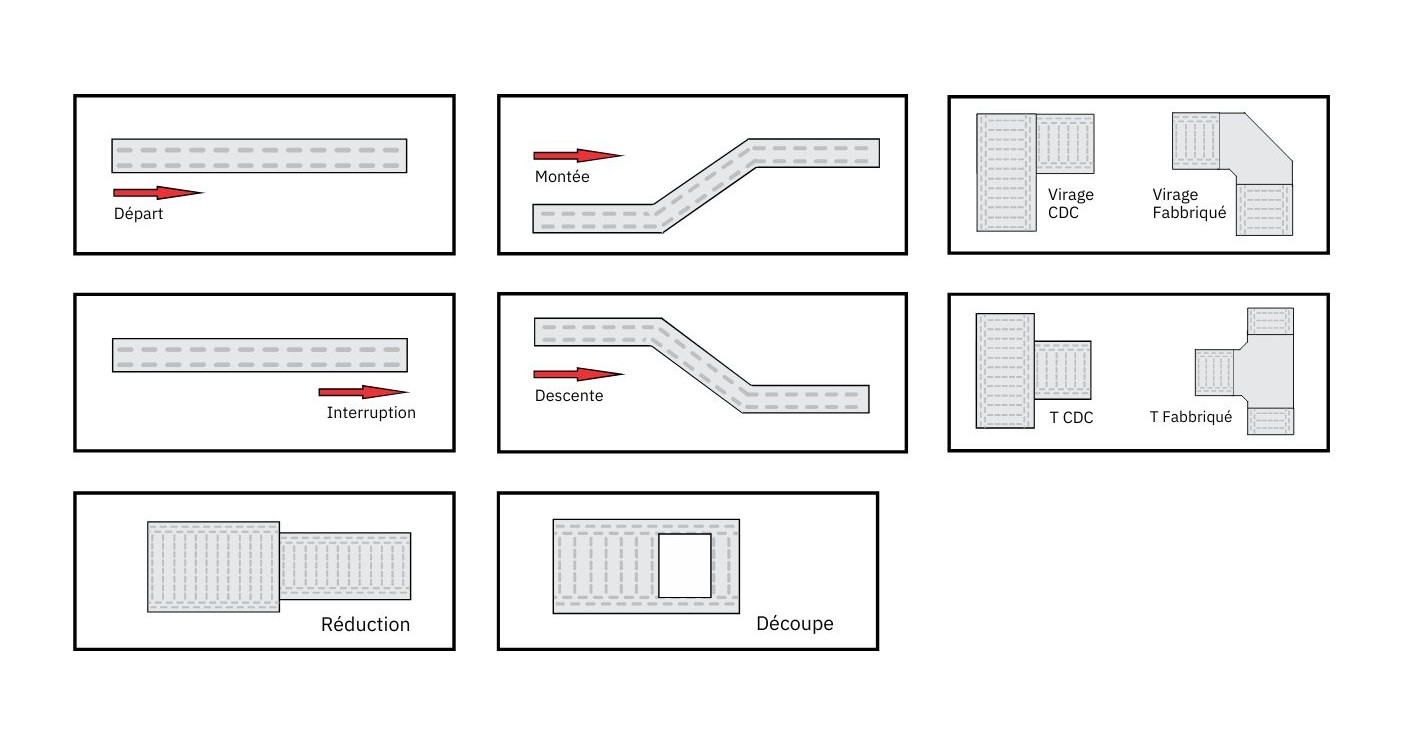
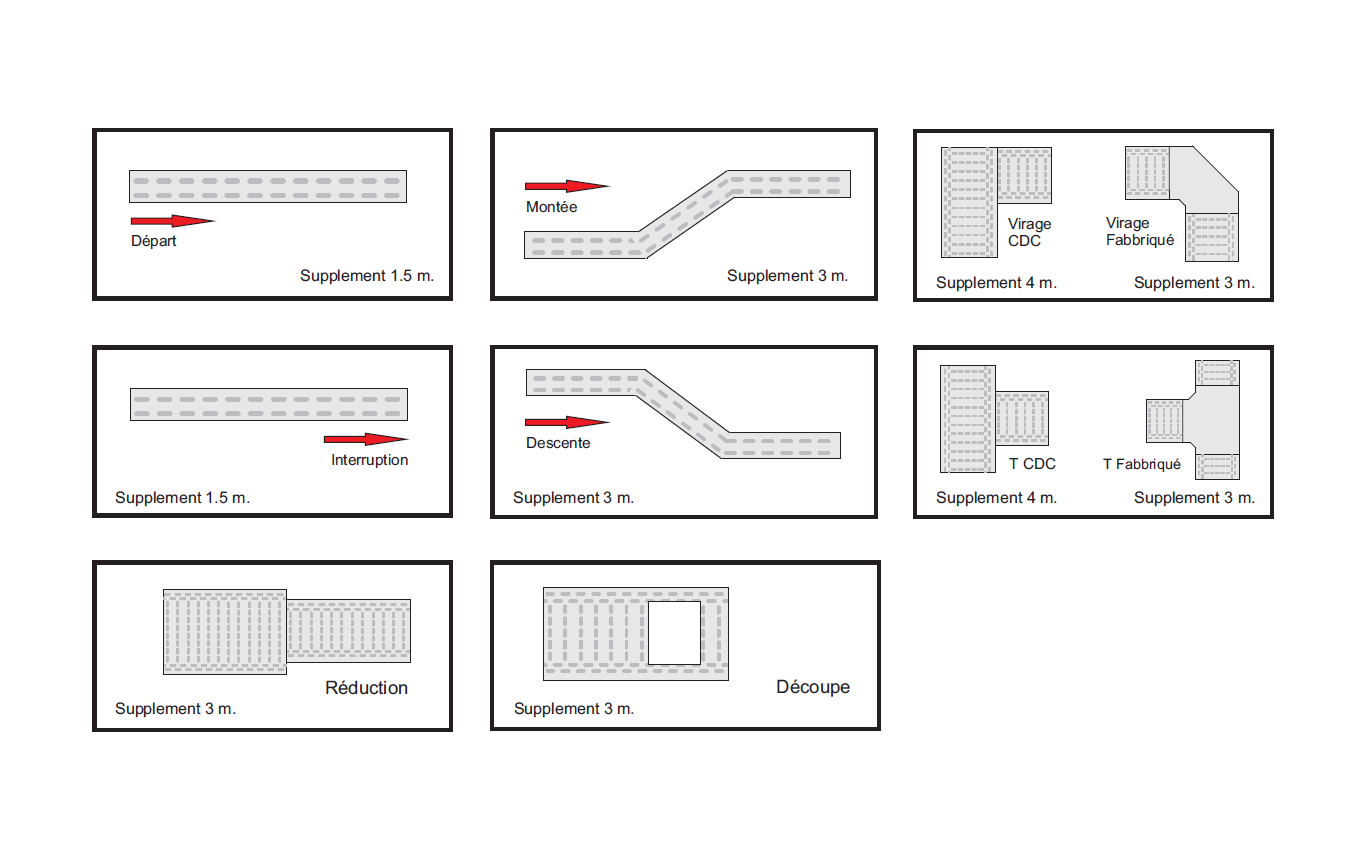
MIGRAZIONE SUPABASE COMPLETATA - Sistema devis 100% funzionante

Changed region(s): [[0.031, 0.1219, 0.9595, 0.8834]]

diff --git a/src/components/DevisPdf.vue b/src/components/DevisPdf.vue
@@ -38,7 +38,9 @@ const props = defineProps({
   // Eventuali note inserite dall'utente
   notes: { type: String, default: '' },
   // Opzione per nascondere la lista supplementi
-  hideSupplementsList: { type: Boolean, default: false }
+  hideSupplementsList: { type: Boolean, default: false },
+  // Remise supplémentaire in percentuale
+  remiseSupplementaire: { type: Number, default: 0 }
 });
 
 // Computed
@@ -201,7 +203,8 @@ const generatePdf = async () => {
       head: head,
       body: body,
       startY: tableStartY + 2,
-      theme: 'grid',
+      theme: 'plain',
+      pageBreak: 'avoid',
       margin: { top: 35 }, // Aggiungiamo margine superiore per evitare sovrapposizione con logo
       headStyles: {
         fillColor: [230, 230, 230],
@@ -213,7 +216,8 @@ const generatePdf = async () => {
       bodyStyles: {
         textColor: 20,
         fontSize: 8,
-        valign: 'middle'
+        valign: 'middle',
+        halign: 'center'
       },
       columnStyles: {
         0: { cellWidth: 20 }, // Code
@@ -244,11 +248,28 @@ const generatePdf = async () => {
     tableStartY = finalY + 15
   })
 
-  // Inseriamo il totale del devis
+  // Sezione totali con remise détaillée
+  const subtotalSansRemise = devisTotal.value
+  const remisePct = props.remiseSupplementaire || 0
+  const montantRemise = subtotalSansRemise * (remisePct / 100)
+  const totalAvecRemise = subtotalSansRemise - montantRemise
+  
+  doc.setFontSize(9)
+  doc.setFont('Helvetica', 'normal')
+  doc.text(`Sous-total:`, 80, tableStartY + 6)
+  doc.text(`${subtotalSansRemise.toFixed(2)} CHF`, 170, tableStartY + 6, { align: 'right' })
+  
+  if (remisePct > 0) {
+    doc.text(`Remise suppl. (${remisePct}%):`, 80, tableStartY + 12)
+    doc.text(`-${montantRemise.toFixed(2)} CHF`, 170, tableStartY + 12, { align: 'right' })
+    tableStartY += 6
+  }
+  
   doc.setFontSize(10)
   doc.setFont('Helvetica', 'bold')
-  doc.text(`Total Devis: ${devisTotal.value.toFixed(2)} CHF`, 170, tableStartY + 6, { align: 'right' })
-  tableStartY += 20
+  doc.text(`Total Devis:`, 80, tableStartY + 12)
+  doc.text(`${totalAvecRemise.toFixed(2)} CHF`, 170, tableStartY + 12, { align: 'right' })
+  tableStartY += 26
 
   // Ora aggiungiamo la sezione "Détail des Suppléments par Zone" se esistono dati
   if (Array.isArray(props.supplementParZone) && props.supplementParZone.length) {
@@ -310,19 +331,21 @@ const generatePdf = async () => {
           head: head,
           body: body,
           startY: tableStartY + 6,
-          theme: 'grid',
+          theme: 'plain',
+          pageBreak: 'avoid',
           margin: { top: 35 },
           headStyles: {
             fillColor: [240, 240, 240],
             textColor: 20,
             halign: 'center',
             valign: 'middle',
-            fontSize: 7
+            fontSize: 8
           },
           bodyStyles: {
             textColor: 20,
-            fontSize: 7,
-            valign: 'middle'
+            fontSize: 8,
+            valign: 'middle',
+            halign: 'center'
           },
           columnStyles: {
             0: { cellWidth: 60 },

diff --git a/src/views/devis/DevisList.vue b/src/views/devis/DevisList.vue
@@ -26,6 +26,12 @@
           <option value="Non accepté">Non accepté</option>
         </select>
       </div>
+      <div class="col-md-3">
+        <select v-model="sortBy" class="form-select">
+          <option value="numero">Trier par numéro (récent)</option>
+          <option value="date">Trier par date (récent)</option>
+        </select>
+      </div>
     </div>
 
     <!-- Tabella -->
@@ -95,6 +101,7 @@ const sousfamilles = ref([]);
 const filterClient = ref('');
 const filterTechnicien = ref('');
 const filterStatus = ref('');
+const sortBy = ref('numero');
 
 const router = useRouter();
 
@@ -143,12 +150,19 @@ const filteredDevis = computed(() => {
     const matchStatus = !filterStatus.value || state === filterStatus.value;
     return matchClient && matchTech && matchStatus;
   });
-  // Ordiniamo per numero devis (es. DEV-0001, DEV-0010) confrontando la parte numerica
+  // Ordiniamo in base alla selezione
   return list.slice().sort((a, b) => {
-    const numA = parseInt(String(a.numero).split('-')[1] || '0', 10);
-    const numB = parseInt(String(b.numero).split('-')[1] || '0', 10);
-    // Ordine decrescente: numeri più alti per primi
-    return numB - numA;
+    if (sortBy.value === 'date') {
+      // Ordinamento per data (più recenti per primi)
+      const dateA = new Date(a.created_at || a.createdAt || 0);
+      const dateB = new Date(b.created_at || b.createdAt || 0);
+      return dateB - dateA;
+    } else {
+      // Ordinamento per numero devis (più alti per primi)
+      const numA = parseInt(String(a.numero).split('-')[1] || '0', 10);
+      const numB = parseInt(String(b.numero).split('-')[1] || '0', 10);
+      return numB - numA;
+    }
   });
 });
 

diff --git a/src/views/devis/DevisConditions.vue b/src/views/devis/DevisConditions.vue
@@ -85,6 +85,7 @@
       :notes="notes"
       :famillesVisibles="famillesVisibles"
       :hideSupplementsList="hideSupplementsList"
+      :remiseSupplementaire="devisData?.discount || 0"
       style="display: none;"
     />
     
